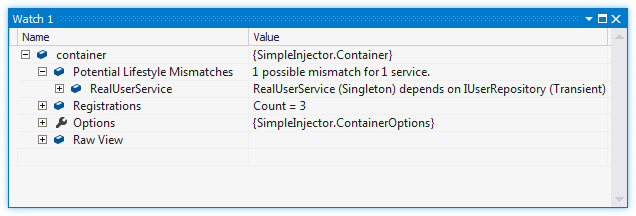
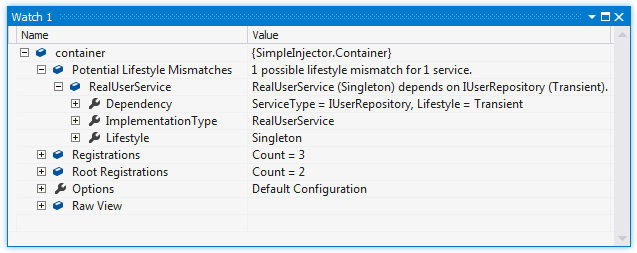
-Updated the diagnostic services documentation -Removed information about diagnostic services from the quick start. -Moved the 'integration guide' up in the index.

Changed region(s): [[0.0, 0.0, 1.0, 1.0], [0.0597, 0.3889, 0.3585, 0.8333]]

diff --git a/source/diagnostics.rst b/source/diagnostics.rst
@@ -19,7 +19,12 @@ Another option is to add the **container** variable to the Visual Studio watch w
 .. image:: images/diagnostics2.png 
    :alt: Diagnostics debugger view watch window
 
-These same information can be requested programmatically by using the Diagnostic API. The Diagnostic API is located in the **SimpleInjector.Diagnostics.dll**. This dll is part of the core NuGet package. Interacting with the Diagnostic API is especially useful for automated testing. The following is an example of an integration test that checks whether the container is free of configuration warnings:
+The debugger views also allow visualizing your application's dependency graphs. This can give you a good view of what the end result of your DI configuration is. By drilling into the list of **Registrations** or **Root Registrations**, you can select the text visualizer (the magnifying glass icon) on the **DependencyGraph** property on any of the lister registrations:
+
+.. image:: images/dependencygraph.png 
+   :alt: Viewing dependency graphs  
+   
+This same information can be requested programmatically by using the Diagnostic API. The Diagnostic API is located in the **SimpleInjector.Diagnostics.dll**. This dll is part of the core NuGet package. Interacting with the Diagnostic API is especially useful for automated testing. The following is an example of an integration test that checks whether the container is free of configuration warnings:
 
 .. code-block:: c#
 
@@ -39,10 +44,6 @@ These same information can be requested programmatically by using the Diagnostic
                 select result.Description));
     }
 
-.. container:: Note
-
-    **Note**: The Diagnostic API is new in Simple Injector v2.4.
-
 Limitations
 ===========
 
@@ -56,9 +57,10 @@ The **Diagnostic Services** work by analyzing all information that is known by t
 * Dependencies added by :ref:`Decorators`.
 * Dependencies that are not registered explicitly but are referenced as constructor argument (this included types that got created through unregistered type resolution).
 
-The Diagnostic Services cannot analyze the following:
+The Diagnostic Services **cannot** analyze the following:
 
 * Types that are completely unknown, because these types are not registered explicitly and no registered type depends on them. In general you should register all root types (types that are requested directly by calling **GetInstance<T>()**, such as MVC Controllers) explicitly.
+* Open-generic registrations that are resolved as root type (no registered type depends on them). Since the container uses unregistered type resolution, those registrations will be unknown untill they are resolved. Prefer registering each closed-generic version explicitly, or add unit tests to verify that these root types can be resolved.
 * Dependencies added using the `RegisterInitializer <https://simpleinjector.org/ReferenceLibrary/?topic=html/M_SimpleInjector_Container_RegisterInitializer__1.htm>`_ method:
 
 .. code-block:: c#

diff --git a/source/quickstart.rst b/source/quickstart.rst
@@ -21,18 +21,6 @@ The following platforms are supported:
 
     Simple Injector is carefully designed to run in **partial / medium trust**, and it is fast; `blazingly fast <https://simpleinjector.codeplex.com/discussions/326621>`_.
 
-New Diagnostic Services in Simple Injector 2
-============================================
-
-Simple Injector 2.0 adds the ability to warn about common misconfigurations while unit testing and/or debugging your application. Many Simple Injector users have already used this feature to diagnose their configuration and have successfully fixed problems that would have otherwise been difficult or even impossible to find. 
-
-Here's a quick visual example of this feature:
-
-.. image:: images/diagnosticsdebuggerview.png 
-   :alt: Diagnostics debugger view context menu
-
-See the :doc:`diagnostics` page for more information.
-
 Getting started
 ===============
 

diff --git a/source/index.rst b/source/index.rst
@@ -16,10 +16,10 @@ Contents:
    quickstart
    using
    lifetimes
+   integration
    diagnostics
    howto
    advanced
-   integration
    extensibility
    pipeline
    principles
